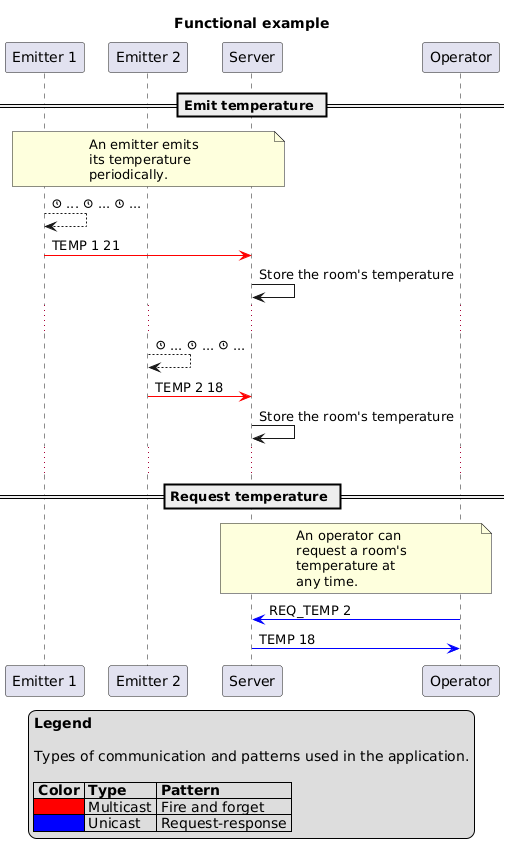
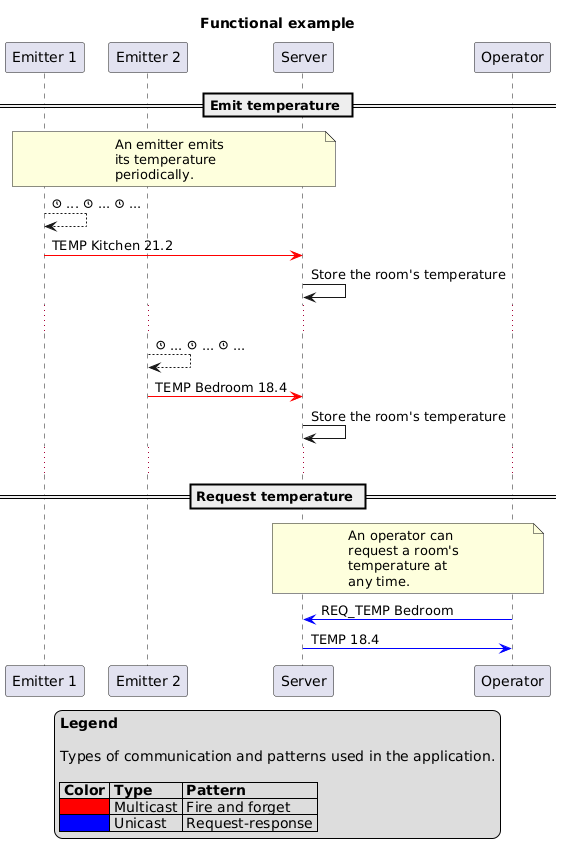
Improve "Temperature monitoring" UDP application (diagram + code) (#19)

diff --git a/13-java-udp-programming/src/main/java/ch/heigvd/dai/commands/Receiver.java b/13-java-udp-programming/src/main/java/ch/heigvd/dai/commands/Receiver.java
@@ -122,21 +122,26 @@ public class Receiver implements Callable<Integer> {
               break;
             }
 
-            // Extract the room name and the temperature
-            //
-            // As we know from the application protocol, the room name and temperature are separated
-            // by a space
-            String[] roomNameAndTemperature = emitterMessageParts[1].split(" ");
+            try {
+              // Extract the room name and the temperature
+              //
+              // As we know from the application protocol, the room name and temperature are
+              // separated
+              // by a space
+              String[] roomNameAndTemperature = emitterMessageParts[1].split(" ");
 
-            if (roomNameAndTemperature.length < 2) {
+              if (roomNameAndTemperature.length < 2) {
+                System.out.println("[Receiver] Invalid message, ignoring...");
+                break;
+              }
+
+              String roomName = roomNameAndTemperature[0];
+              Double temperature = Double.parseDouble(roomNameAndTemperature[1]);
+
+              roomsTemperature.put(roomName, temperature);
+            } catch (NumberFormatException e) {
               System.out.println("[Receiver] Invalid message, ignoring...");
-              break;
             }
-
-            String roomName = roomNameAndTemperature[0];
-            Double temperature = Double.parseDouble(roomNameAndTemperature[1]);
-
-            roomsTemperature.put(roomName, temperature);
           }
           case null, default -> System.out.println("[Receiver] Invalid message, ignoring...");
         }

diff --git a/11-define-an-application-protocol/02-temperature-monitoring-application/README.md b/11-define-an-application-protocol/02-temperature-monitoring-application/README.md
@@ -127,9 +127,9 @@ error message to the operator.
 
 ![Invalid temperature example](./images/example-2-invalid-temperature.png)
 
-### Request temperature errors example
+### Request unknown room temperature example
 
-![Request temperature errors example](./images/example-3-request-temperature-errors.png)
+![Request temperature errors example](./images/example-3-request-unkown-room-temperature.png)
 
 ### Invalid command example
 
